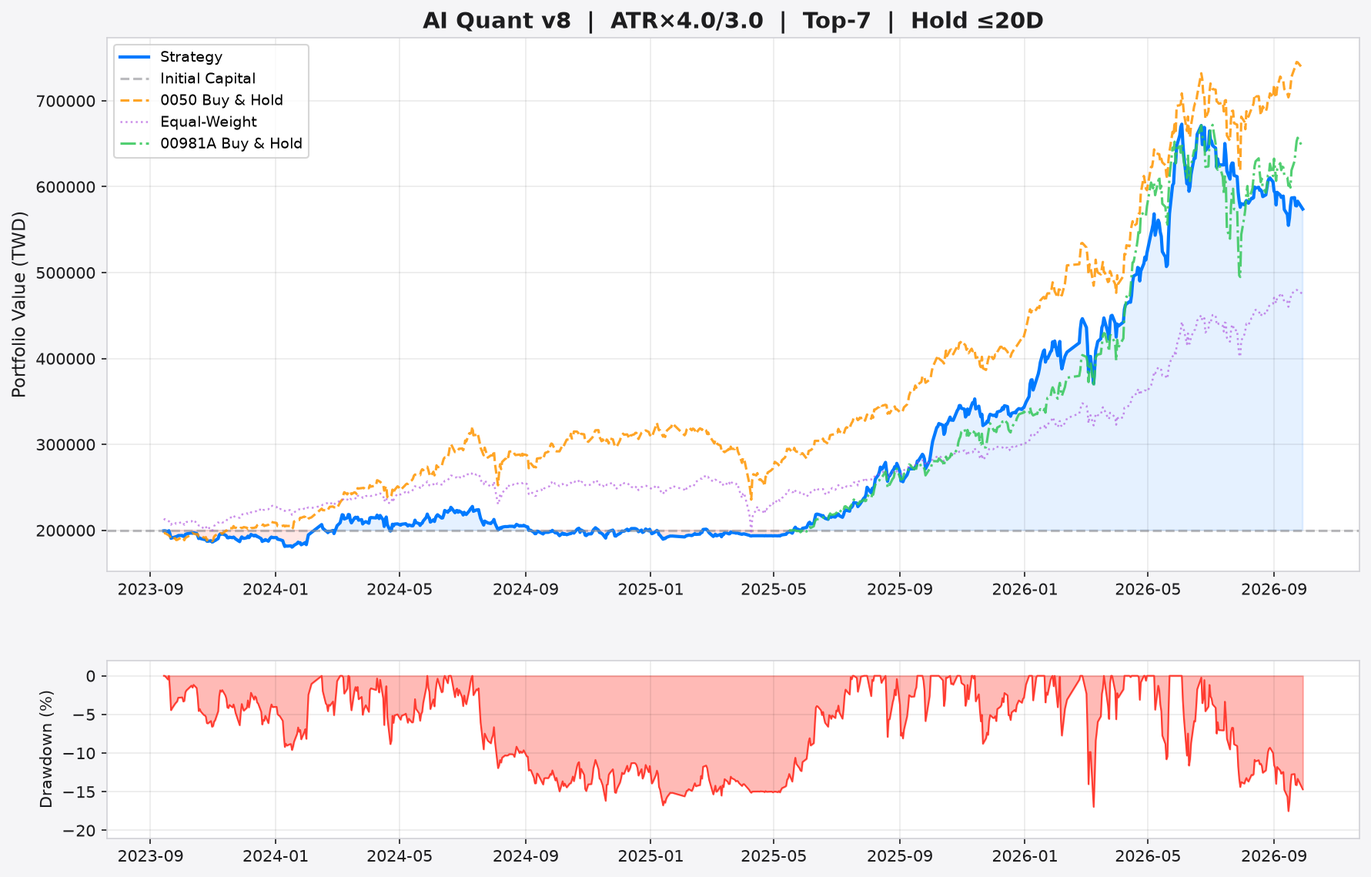
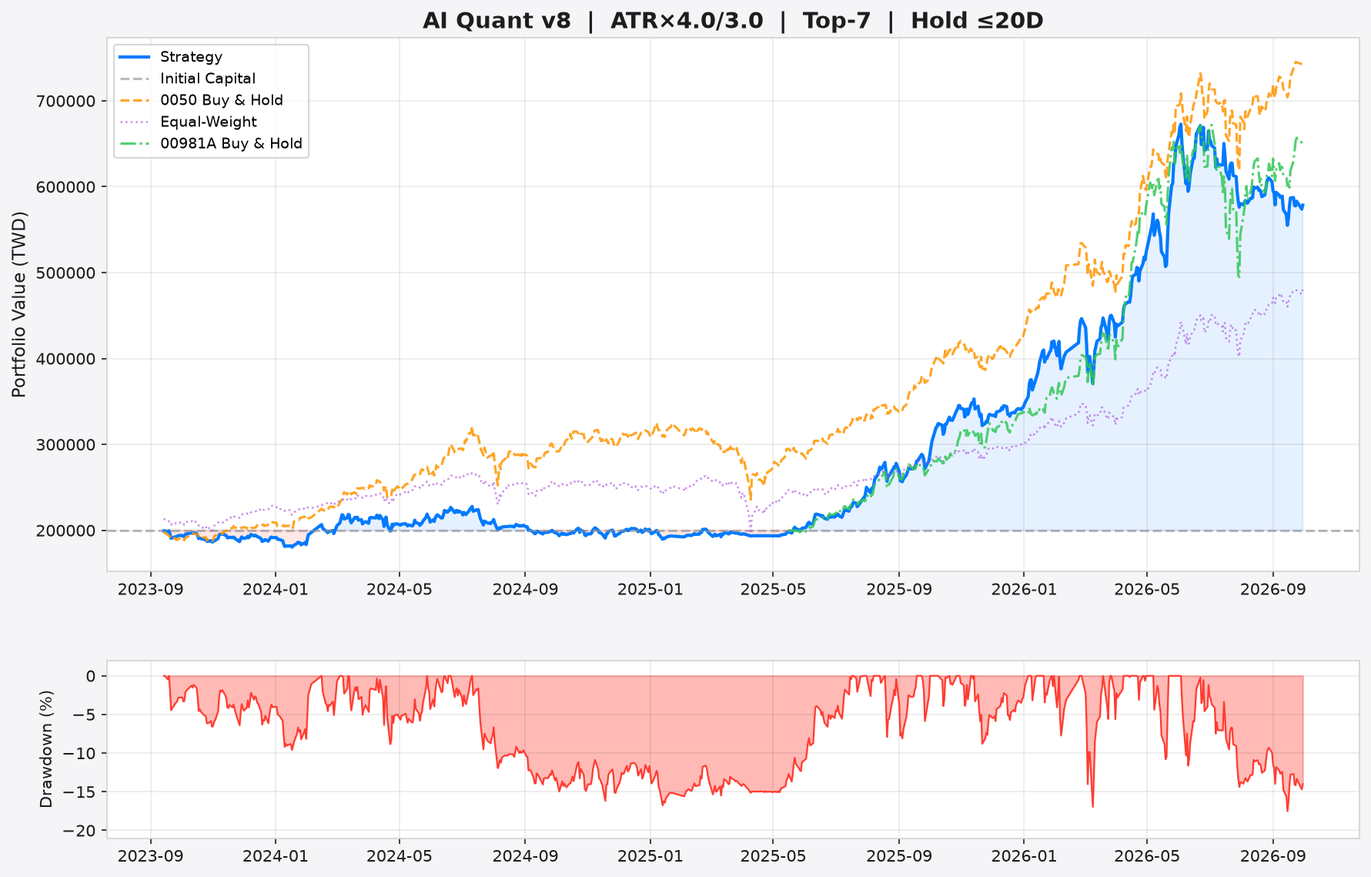
📊 AI Report v8.5 + Paper Trading (2026-09-30)

diff --git a/stock_report.html b/stock_report.html
@@ -3,7 +3,7 @@
 <head>
     <meta charset="utf-8">
     <meta name="viewport" content="width=device-width, initial-scale=1.0">
-    <title>AI 台股量化交易 v8.5 — 2026-09-29</title>
+    <title>AI 台股量化交易 v8.5 — 2026-09-30</title>
     <meta name="description" content="AI 驅動的台股量化交易系統 v8.5，完整風險報告、Benchmark 對比、OCO 智慧掛單建議">
     <script>
         (function() {
@@ -292,7 +292,7 @@
 
     <h1>🎯 AI 台股量化交易 v8.5</h1>
     <p class="subtitle">
-        Event-Driven System &nbsp;|&nbsp; 報表日期: 2026-09-29 &nbsp;|&nbsp;
+        Event-Driven System &nbsp;|&nbsp; 報表日期: 2026-09-30 &nbsp;|&nbsp;
         <span class="config-badge">🛡 ATR×4.0/3.0</span>
         <span class="config-badge">🎯 Top-7</span>
         <span class="config-badge">⏱ 最長 20 天</span>
@@ -303,11 +303,11 @@
     <div class="stats">
         <div class="stat-card">
             <div class="label">策略總報酬率</div>
-            <div class="value" style="color:#00ff00;">+187.0%</div>
+            <div class="value" style="color:#00ff00;">+189.3%</div>
         </div>
         <div class="stat-card">
             <div class="label">年化報酬率</div>
-            <div class="value" style="color:#00ff00;">+43.4%</div>
+            <div class="value" style="color:#00ff00;">+43.7%</div>
         </div>
         <div class="stat-card">
             <div class="label">年化波動率</div>
@@ -315,11 +315,11 @@
         </div>
         <div class="stat-card risk">
             <div class="label">Sharpe Ratio</div>
-            <div class="value" style="color:#00ff00;">1.52</div>
+            <div class="value" style="color:#00ff00;">1.53</div>
         </div>
         <div class="stat-card risk">
             <div class="label">Sortino Ratio</div>
-            <div class="value">2.19</div>
+            <div class="value">2.21</div>
         </div>
         <div class="stat-card risk">
             <div class="label">最大回撤</div>
@@ -327,7 +327,7 @@
         </div>
         <div class="stat-card risk">
             <div class="label">Calmar Ratio</div>
-            <div class="value">2.48</div>
+            <div class="value">2.50</div>
         </div>
         <div class="stat-card">
             <div class="label">完成交易數</div>
@@ -370,23 +370,23 @@
             </tr>
         </thead>
         <tbody>
-<tr><td>6505</td><td>3.97</td><td>94.3</td><td><span style="color:#00ff00; font-weight:bold;">🟢 建議買進 #1</span></td><td><b>停利:</b> <span style="color:#00ff00">111.3</span> (+18.0%) <br><b>停損:</b> <span style="color:#ff4444">81.6</span> (-13.5%) <br><b>最晚出場:</b> 2026-10-29</td><td><span style="font-size:0.72rem; color:#888;">歷史 <b>2</b>筆 | 勝率 <b style="color:#ff4444">0%</b> | 均報酬 <b style="color:#ff4444">-10.4%</b></span></td><td><span style="font-size:0.78rem;">⚪ 無資料<br><span style="color:#888; font-weight:bold;">+0.0%</span></span></td><td><span style="font-size:0.78rem;">⚪ 中性</span></td></tr>
-<tr><td>3443</td><td>3.95</td><td>7925.0</td><td><span style="color:#00ff00; font-weight:bold;">🟢 建議買進 #2</span></td><td><b>停利:</b> <span style="color:#00ff00">9661.0</span> (+21.9%) <br><b>停損:</b> <span style="color:#ff4444">6623.0</span> (-16.4%) <br><b>最晚出場:</b> 2026-10-29</td><td><span style="font-size:0.72rem; color:#888;">歷史 <b>13</b>筆 | 勝率 <b style="color:#00ff00">54%</b> | 均報酬 <b style="color:#00ff00">+1.6%</b></span></td><td><span style="font-size:0.78rem;">⚪ 無資料<br><span style="color:#888; font-weight:bold;">+0.0%</span></span></td><td><span style="font-size:0.78rem;">⚪ 中性</span></td></tr>
-<tr><td>3529O</td><td>3.88</td><td>3305.0</td><td><span style="color:#00ff00; font-weight:bold;">🟢 建議買進 #3</span></td><td><b>停利:</b> <span style="color:#00ff00">4102.0</span> (+24.1%) <br><b>停損:</b> <span style="color:#ff4444">2707.2</span> (-18.1%) <br><b>最晚出場:</b> 2026-10-29</td><td><span style="font-size:0.72rem; color:#888;">歷史 <b>10</b>筆 | 勝率 <b style="color:#ff4444">40%</b> | 均報酬 <b style="color:#ff4444">-0.4%</b></span></td><td><span style="font-size:0.78rem;">⚪ 無資料<br><span style="color:#888; font-weight:bold;">+0.0%</span></span></td><td><span style="font-size:0.78rem;">⚪ 中性</span></td></tr>
-<tr><td>5274O</td><td>3.75</td><td>19395.0</td><td><span style="color:#00ff00; font-weight:bold;">🟢 建議買進 #4</span></td><td><b>停利:</b> <span style="color:#00ff00">23988.0</span> (+23.7%) <br><b>停損:</b> <span style="color:#ff4444">15950.2</span> (-17.8%) <br><b>最晚出場:</b> 2026-10-29</td><td><span style="font-size:0.72rem; color:#888;">歷史 <b>16</b>筆 | 勝率 <b style="color:#00ff00">75%</b> | 均報酬 <b style="color:#00ff00">+6.5%</b></span></td><td><span style="font-size:0.78rem;">⚪ 無資料<br><span style="color:#888; font-weight:bold;">+0.0%</span></span></td><td><span style="font-size:0.78rem;">⚪ 中性</span></td></tr>
-<tr><td>2454</td><td>3.72</td><td>4910.0</td><td><span style="color:#00ff00; font-weight:bold;">🟢 建議買進 #5</span></td><td><b>停利:</b> <span style="color:#00ff00">5886.0</span> (+19.9%) <br><b>停損:</b> <span style="color:#ff4444">4178.0</span> (-14.9%) <br><b>最晚出場:</b> 2026-10-29</td><td><span style="font-size:0.72rem; color:#888;">歷史 <b>8</b>筆 | 勝率 <b style="color:#00ff00">88%</b> | 均報酬 <b style="color:#00ff00">+9.2%</b></span></td><td><span style="font-size:0.78rem;">🟡 小買<br><span style="color:#ffab00; font-weight:bold;">+1.1%</span></span></td><td><span style="font-size:0.78rem;">⚪ 中性</span></td></tr>
-<tr><td>2883</td><td>3.62</td><td>39.0</td><td><span style="color:#00ff00; font-weight:bold;">🟢 建議買進 #6</span></td><td><b>停利:</b> <span style="color:#00ff00">43.5</span> (+11.8%) <br><b>停損:</b> <span style="color:#ff4444">35.5</span> (-8.9%) <br><b>最晚出場:</b> 2026-10-29</td><td><span style="font-size:0.72rem; color:#555;">歷史資料不足</span></td><td><span style="font-size:0.78rem;">🟢 大買<br><span style="color:#00ff00; font-weight:bold;">+3.5%</span></span></td><td><span style="font-size:0.78rem;">⚪ 中性</span></td></tr>
-<tr><td>2303</td><td>3.50</td><td>153.5</td><td><span style="color:#00ff00; font-weight:bold;">🟢 建議買進 #7</span></td><td><b>停利:</b> <span style="color:#00ff00">182.6</span> (+19.0%) <br><b>停損:</b> <span style="color:#ff4444">131.7</span> (-14.2%) <br><b>最晚出場:</b> 2026-10-29</td><td><span style="font-size:0.72rem; color:#888;">歷史 <b>4</b>筆 | 勝率 <b style="color:#00ff00">75%</b> | 均報酬 <b style="color:#00ff00">+7.0%</b></span></td><td><span style="font-size:0.78rem;">🟡 小買<br><span style="color:#ffab00; font-weight:bold;">+1.6%</span></span></td><td><span style="font-size:0.78rem;">⚪ 中性</span></td></tr>
-<tr style="opacity:0.6"><td>2884</td><td>3.47</td><td>44.9</td><td><span style="color:#ffab00">🟡 候選 (超出 Top-K)</span></td><td>-</td><td><span style="font-size:0.72rem; color:#888;">勝率 <b style="color:#00ff00">75%</b></span></td><td><span style="font-size:0.72rem;">⚪ 無資料<br><span style="color:#888">+0.0%</span></span></td><td><span style="font-size:0.72rem;">⚪ 中性</span></td></tr>
-<tr style="opacity:0.6"><td>1303</td><td>3.45</td><td>247.0</td><td><span style="color:#ffab00">🟡 候選 (超出 Top-K)</span></td><td>-</td><td><span style="font-size:0.72rem; color:#888;">勝率 <b style="color:#00ff00">75%</b></span></td><td><span style="font-size:0.72rem;">⚪ 無資料<br><span style="color:#888">+0.0%</span></span></td><td><span style="font-size:0.72rem;">⚪ 中性</span></td></tr>
-<tr style="opacity:0.6"><td>2404</td><td>3.23</td><td>1220.0</td><td><span style="color:#ffab00">🟡 候選 (超出 Top-K)</span></td><td>-</td><td><span style="font-size:0.72rem; color:#888;">勝率 <b style="color:#00ff00">68%</b></span></td><td><span style="font-size:0.72rem;">🟡 小買<br><span style="color:#888">+1.3%</span></span></td><td><span style="font-size:0.72rem;">⚪ 中性</span></td></tr>
-<tr style="opacity:0.6"><td>2892</td><td>3.22</td><td>38.6</td><td><span style="color:#ffab00">🟡 候選 (超出 Top-K)</span></td><td>-</td><td><span style="font-size:0.72rem; color:#555;">-</span></td><td><span style="font-size:0.72rem;">🟡 小買<br><span style="color:#888">+1.8%</span></span></td><td><span style="font-size:0.72rem;">⚪ 中性</span></td></tr>
-<tr style="opacity:0.6"><td>2395</td><td>3.15</td><td>730.0</td><td><span style="color:#ffab00">🟡 候選 (超出 Top-K)</span></td><td>-</td><td><span style="font-size:0.72rem; color:#888;">勝率 <b style="color:#ff4444">33%</b></span></td><td><span style="font-size:0.72rem;">⚪ 無資料<br><span style="color:#888">+0.0%</span></span></td><td><span style="font-size:0.72rem;">⚪ 中性</span></td></tr>
-<tr style="opacity:0.4"><td>1101</td><td>1.90</td><td>25.3</td><td><span style="color:#aaaaaa">⚪ 觀望 (評分不足)</span></td><td>-</td><td>-</td><td style="color:#555">-</td><td style="color:#555">-</td></tr>
-<tr style="opacity:0.4"><td>3017</td><td>1.88</td><td>3400.0</td><td><span style="color:#aaaaaa">⚪ 觀望 (評分不足)</span></td><td>-</td><td>-</td><td style="color:#555">-</td><td style="color:#555">-</td></tr>
-<tr style="opacity:0.4"><td>6770</td><td>1.85</td><td>72.3</td><td><span style="color:#aaaaaa">⚪ 觀望 (評分不足)</span></td><td>-</td><td>-</td><td style="color:#555">-</td><td style="color:#555">-</td></tr>
-<tr style="opacity:0.4"><td>2376</td><td>1.85</td><td>362.0</td><td><span style="color:#aaaaaa">⚪ 觀望 (評分不足)</span></td><td>-</td><td>-</td><td style="color:#555">-</td><td style="color:#555">-</td></tr>
-<tr style="opacity:0.4"><td>2603</td><td>1.83</td><td>238.0</td><td><span style="color:#aaaaaa">⚪ 觀望 (評分不足)</span></td><td>-</td><td>-</td><td style="color:#555">-</td><td style="color:#555">-</td></tr>
+<tr><td>3529O</td><td>3.98</td><td>3305.0</td><td><span style="color:#00ff00; font-weight:bold;">🟢 建議買進 #1</span></td><td><b>停利:</b> <span style="color:#00ff00">4122.0</span> (+24.7%) <br><b>停損:</b> <span style="color:#ff4444">2692.2</span> (-18.5%) <br><b>最晚出場:</b> 2026-10-30</td><td><span style="font-size:0.72rem; color:#888;">歷史 <b>10</b>筆 | 勝率 <b style="color:#ff4444">40%</b> | 均報酬 <b style="color:#ff4444">-0.4%</b></span></td><td><span style="font-size:0.78rem;">⚪ 無資料<br><span style="color:#888; font-weight:bold;">+0.0%</span></span></td><td><span style="font-size:0.78rem;">⚪ 中性</span></td></tr>
+<tr><td>6505</td><td>3.92</td><td>97.3</td><td><span style="color:#00ff00; font-weight:bold;">🟢 建議買進 #2</span></td><td><b>停利:</b> <span style="color:#00ff00">114.8</span> (+18.0%) <br><b>停損:</b> <span style="color:#ff4444">84.2</span> (-13.5%) <br><b>最晚出場:</b> 2026-10-30</td><td><span style="font-size:0.72rem; color:#888;">歷史 <b>2</b>筆 | 勝率 <b style="color:#ff4444">0%</b> | 均報酬 <b style="color:#ff4444">-10.4%</b></span></td><td><span style="font-size:0.78rem;">⚪ 無資料<br><span style="color:#888; font-weight:bold;">+0.0%</span></span></td><td><span style="font-size:0.78rem;">⚪ 中性</span></td></tr>
+<tr><td>3443</td><td>3.90</td><td>8040.0</td><td><span style="color:#00ff00; font-weight:bold;">🟢 建議買進 #3</span></td><td><b>停利:</b> <span style="color:#00ff00">9742.0</span> (+21.2%) <br><b>停損:</b> <span style="color:#ff4444">6763.5</span> (-15.9%) <br><b>最晚出場:</b> 2026-10-30</td><td><span style="font-size:0.72rem; color:#888;">歷史 <b>13</b>筆 | 勝率 <b style="color:#00ff00">54%</b> | 均報酬 <b style="color:#00ff00">+1.6%</b></span></td><td><span style="font-size:0.78rem;">⚪ 無資料<br><span style="color:#888; font-weight:bold;">+0.0%</span></span></td><td><span style="font-size:0.78rem;">⚪ 中性</span></td></tr>
+<tr><td>2454</td><td>3.77</td><td>4920.0</td><td><span style="color:#00ff00; font-weight:bold;">🟢 建議買進 #4</span></td><td><b>停利:</b> <span style="color:#00ff00">5901.0</span> (+19.9%) <br><b>停損:</b> <span style="color:#ff4444">4184.2</span> (-15.0%) <br><b>最晚出場:</b> 2026-10-30</td><td><span style="font-size:0.72rem; color:#888;">歷史 <b>8</b>筆 | 勝率 <b style="color:#00ff00">88%</b> | 均報酬 <b style="color:#00ff00">+9.2%</b></span></td><td><span style="font-size:0.78rem;">🟡 小買<br><span style="color:#ffab00; font-weight:bold;">+1.1%</span></span></td><td><span style="font-size:0.78rem;">⚪ 中性</span></td></tr>
+<tr><td>2404</td><td>3.67</td><td>1290.0</td><td><span style="color:#00ff00; font-weight:bold;">🟢 建議買進 #5</span></td><td><b>停利:</b> <span style="color:#00ff00">1516.6</span> (+17.6%) <br><b>停損:</b> <span style="color:#ff4444">1120.0</span> (-13.2%) <br><b>最晚出場:</b> 2026-10-30</td><td><span style="font-size:0.72rem; color:#888;">歷史 <b>19</b>筆 | 勝率 <b style="color:#00ff00">68%</b> | 均報酬 <b style="color:#00ff00">+3.8%</b></span></td><td><span style="font-size:0.78rem;">🟡 小買<br><span style="color:#ffab00; font-weight:bold;">+1.3%</span></span></td><td><span style="font-size:0.78rem;">⚪ 中性</span></td></tr>
+<tr><td>3037</td><td>3.58</td><td>1175.0</td><td><span style="color:#00ff00; font-weight:bold;">🟢 建議買進 #6</span></td><td><b>停利:</b> <span style="color:#00ff00">1397.4</span> (+18.9%) <br><b>停損:</b> <span style="color:#ff4444">1008.2</span> (-14.2%) <br><b>最晚出場:</b> 2026-10-30</td><td><span style="font-size:0.72rem; color:#888;">歷史 <b>12</b>筆 | 勝率 <b style="color:#00ff00">58%</b> | 均報酬 <b style="color:#00ff00">+6.2%</b></span></td><td><span style="font-size:0.78rem;">🟡 小買<br><span style="color:#ffab00; font-weight:bold;">+1.8%</span></span></td><td><span style="font-size:0.78rem;">⚪ 中性</span></td></tr>
+<tr><td>2303</td><td>3.53</td><td>154.5</td><td><span style="color:#00ff00; font-weight:bold;">🟢 建議買進 #7</span></td><td><b>停利:</b> <span style="color:#00ff00">183.3</span> (+18.6%) <br><b>停損:</b> <span style="color:#ff4444">132.9</span> (-14.0%) <br><b>最晚出場:</b> 2026-10-30</td><td><span style="font-size:0.72rem; color:#888;">歷史 <b>4</b>筆 | 勝率 <b style="color:#00ff00">75%</b> | 均報酬 <b style="color:#00ff00">+7.0%</b></span></td><td><span style="font-size:0.78rem;">🟡 小買<br><span style="color:#ffab00; font-weight:bold;">+1.6%</span></span></td><td><span style="font-size:0.78rem;">⚪ 中性</span></td></tr>
+<tr style="opacity:0.6"><td>3711</td><td>3.52</td><td>703.0</td><td><span style="color:#ffab00">🟡 候選 (超出 Top-K)</span></td><td>-</td><td><span style="font-size:0.72rem; color:#888;">勝率 <b style="color:#00ff00">60%</b></span></td><td><span style="font-size:0.72rem;">🟡 小買<br><span style="color:#888">+0.9%</span></span></td><td><span style="font-size:0.72rem;">⚪ 中性</span></td></tr>
+<tr style="opacity:0.6"><td>5274O</td><td>3.45</td><td>18750.0</td><td><span style="color:#ffab00">🟡 候選 (超出 Top-K)</span></td><td>-</td><td><span style="font-size:0.72rem; color:#888;">勝率 <b style="color:#00ff00">75%</b></span></td><td><span style="font-size:0.72rem;">⚪ 無資料<br><span style="color:#888">+0.0%</span></span></td><td><span style="font-size:0.72rem;">⚪ 中性</span></td></tr>
+<tr style="opacity:0.6"><td>2883</td><td>3.43</td><td>38.8</td><td><span style="color:#ffab00">🟡 候選 (超出 Top-K)</span></td><td>-</td><td><span style="font-size:0.72rem; color:#555;">-</span></td><td><span style="font-size:0.72rem;">🟢 大買<br><span style="color:#00ff00">+3.5%</span></span></td><td><span style="font-size:0.72rem;">⚪ 中性</span></td></tr>
+<tr style="opacity:0.6"><td>2449</td><td>3.23</td><td>294.5</td><td><span style="color:#ffab00">🟡 候選 (超出 Top-K)</span></td><td>-</td><td><span style="font-size:0.72rem; color:#888;">勝率 <b style="color:#00ff00">60%</b></span></td><td><span style="font-size:0.72rem;">🟢 大買<br><span style="color:#00ff00">+3.5%</span></span></td><td><span style="font-size:0.72rem;">⚪ 中性</span></td></tr>
+<tr style="opacity:0.6"><td>2884</td><td>3.20</td><td>44.8</td><td><span style="color:#ffab00">🟡 候選 (超出 Top-K)</span></td><td>-</td><td><span style="font-size:0.72rem; color:#888;">勝率 <b style="color:#00ff00">75%</b></span></td><td><span style="font-size:0.72rem;">⚪ 無資料<br><span style="color:#888">+0.0%</span></span></td><td><span style="font-size:0.72rem;">⚪ 中性</span></td></tr>
+<tr style="opacity:0.4"><td>6239</td><td>1.97</td><td>289.5</td><td><span style="color:#aaaaaa">⚪ 觀望 (評分不足)</span></td><td>-</td><td>-</td><td style="color:#555">-</td><td style="color:#555">-</td></tr>
+<tr style="opacity:0.4"><td>3036</td><td>1.95</td><td>205.5</td><td><span style="color:#aaaaaa">⚪ 觀望 (評分不足)</span></td><td>-</td><td>-</td><td style="color:#555">-</td><td style="color:#555">-</td></tr>
+<tr style="opacity:0.4"><td>3231</td><td>1.93</td><td>184.5</td><td><span style="color:#aaaaaa">⚪ 觀望 (評分不足)</span></td><td>-</td><td>-</td><td style="color:#555">-</td><td style="color:#555">-</td></tr>
+<tr style="opacity:0.4"><td>3017</td><td>1.80</td><td>3435.0</td><td><span style="color:#aaaaaa">⚪ 觀望 (評分不足)</span></td><td>-</td><td>-</td><td style="color:#555">-</td><td style="color:#555">-</td></tr>
+<tr style="opacity:0.4"><td>3533</td><td>1.77</td><td>1770.0</td><td><span style="color:#aaaaaa">⚪ 觀望 (評分不足)</span></td><td>-</td><td>-</td><td style="color:#555">-</td><td style="color:#555">-</td></tr>
 
         </tbody>
     </table>
@@ -461,7 +461,7 @@
     <div class="stats">
         <div class="stat-card benchmark">
             <div class="label">0050 年化報酬</div>
-            <div class="value">+51.0%</div>
+            <div class="value">+51.3%</div>
         </div>
         <div class="stat-card benchmark">
             <div class="label">0050 最大回撤</div>
@@ -469,7 +469,7 @@
         </div>
         <div class="stat-card benchmark">
             <div class="label">0050 Sharpe</div>
-            <div class="value">1.77</div>
+            <div class="value">1.78</div>
         </div>
         <div class="stat-card" style="border-left-color:#ff4444">
             <div class="label">超額年化報酬 (α)</div>
@@ -480,7 +480,7 @@
     <div class="stats">
         <div class="stat-card benchmark">
             <div class="label">00981A 年化報酬</div>
-            <div class="value">+140.2%</div>
+            <div class="value">+141.5%</div>
         </div>
         <div class="stat-card benchmark">
             <div class="label">00981A 最大回撤</div>
@@ -488,11 +488,11 @@
         </div>
         <div class="stat-card benchmark">
             <div class="label">00981A Sharpe</div>
-            <div class="value">2.67</div>
+            <div class="value">2.68</div>
         </div>
         <div class="stat-card" style="border-left-color:#ff4444">
             <div class="label">超額 vs 00981A (共存期)</div>
-            <div class="value" style="color:#ff4444">-34.1%</div>
+            <div class="value" style="color:#ff4444">-34.3%</div>
         </div>
     </div>
     <img src="backtest_chart.png" alt="AI Quantitative Backtest Equity Curve with Benchmark">
@@ -507,19 +507,19 @@
         </div>
         <div class="stat-card benchmark">
             <div class="label">0050 近 5 日</div>
-            <div class="value" style="color:#ff4444">-0.0%</div>
+            <div class="value" style="color:#00ff00">+0.6%</div>
         </div>
         <div class="stat-card benchmark">
             <div class="label">0050 近 20 日</div>
-            <div class="value" style="color:#00ff00">+4.8%</div>
+            <div class="value" style="color:#00ff00">+5.5%</div>
         </div>
         <div class="stat-card benchmark">
             <div class="label">0050 近 60 日</div>
-            <div class="value" style="color:#00ff00">+3.4%</div>
+            <div class="value" style="color:#00ff00">+4.1%</div>
         </div>
         <div class="stat-card risk">
             <div class="label">市場波動率 (20D)</div>
-            <div class="value">17.5%</div>
+            <div class="value">17.0%</div>
         </div>
     </div>
 
@@ -529,7 +529,7 @@
     <div class="stats">
         <div class="stat-card risk">
             <div class="label">目前回撤</div>
-            <div class="value" style="color:#ff4444">-14.7%</div>
+            <div class="value" style="color:#ff4444">-14.0%</div>
         </div>
         <div class="stat-card">
             <div class="label">權益最高點</div>
@@ -543,7 +543,7 @@
     <table>
         <thead><tr><th>#</th><th>開始日</th><th>恢復日</th><th>最大深度</th><th>持續天數</th></tr></thead>
         <tbody>
-<tr><td>#1</td><td>2026-06-23</td><td>2026-09-29</td><td style="color:#ff4444; font-weight:bold">-17.5%</td><td>98 天</td></tr>
+<tr><td>#1</td><td>2026-06-23</td><td>2026-09-30</td><td style="color:#ff4444; font-weight:bold">-17.5%</td><td>99 天</td></tr>
 <tr><td>#2</td><td>2026-03-02</td><td>2026-03-19</td><td style="color:#ff4444; font-weight:bold">-17.0%</td><td>17 天</td></tr>
 <tr><td>#3</td><td>2024-07-12</td><td>2025-07-15</td><td style="color:#ff4444; font-weight:bold">-16.8%</td><td>368 天</td></tr>
 <tr><td>#4</td><td>2026-06-04</td><td>2026-06-22</td><td style="color:#ff4444; font-weight:bold">-11.6%</td><td>18 天</td></tr>
@@ -558,11 +558,11 @@
     <div class="stats">
         <div class="stat-card" style="border-left-color:#ff4444">
             <div class="label">近 60 日 Sharpe</div>
-            <div class="value" style="color:#ff4444">-2.05</div>
+            <div class="value" style="color:#ff4444">-1.82</div>
         </div>
         <div class="stat-card">
             <div class="label">歷史平均 Sharpe</div>
-            <div class="value">1.49</div>
+            <div class="value">1.48</div>
         </div>
         <div class="stat-card risk">
             <div class="label">歷史最低 Sharpe</div>
@@ -722,7 +722,7 @@
 <tr style="background:rgba(0,255,0,0.08)"><td>2026-06</td><td style="color:#00ff00; font-weight:bold">+2.7%</td></tr>
 <tr style="background:rgba(255,68,68,0.30)"><td>2026-07</td><td style="color:#ff4444; font-weight:bold">-12.7%</td></tr>
 <tr style="background:rgba(0,255,0,0.13)"><td>2026-08</td><td style="color:#00ff00; font-weight:bold">+4.4%</td></tr>
-<tr style="background:rgba(255,68,68,0.16)"><td>2026-09</td><td style="color:#ff4444; font-weight:bold">-5.2%</td></tr>
+<tr style="background:rgba(255,68,68,0.13)"><td>2026-09</td><td style="color:#ff4444; font-weight:bold">-4.5%</td></tr>
 
         </tbody>
     </table>

diff --git a/paper_trading.html b/paper_trading.html
@@ -3,7 +3,7 @@
 <head>
     <meta charset="utf-8">
     <meta name="viewport" content="width=device-width, initial-scale=1.0">
-    <title>Paper Trading v8.5 — 2026-09-29</title>
+    <title>Paper Trading v8.5 — 2026-09-30</title>
     <meta name="description" content="TW Stocker v8.5 Paper Trading 實時績效追蹤">
     <script src="https://cdn.jsdelivr.net/npm/chart.js@4"></script>
     <style>
@@ -92,7 +92,7 @@
     <h1>📈 Paper Trading v8.5</h1>
     <p class="subtitle">
         <span class="badge badge-live">● LIVE</span>
-        起始日 2026-09-29 | 更新 2026-09-29 | 初始資金 200,000 | 保留本金 10%，其餘投入
+        起始日 2026-09-30 | 更新 2026-09-30 | 初始資金 200,000 | 保留本金 10%，其餘投入
     </p>
 
     <div class="metrics">
@@ -149,53 +149,53 @@
             <tr><th>股票</th><th>參考收盤</th><th>停利</th><th>停損</th><th>執行日</th></tr>
             
         <tr>
+            <td><b>3529O</b></td>
+            <td>3305.0</td>
+            <td>4122.0</td>
+            <td>2692.2</td>
+            <td>2026-10-01</td>
+        </tr>
+        <tr>
             <td><b>6505</b></td>
-            <td>94.3</td>
-            <td>111.3</td>
-            <td>81.6</td>
-            <td>2026-09-30</td>
+            <td>97.3</td>
+            <td>114.8</td>
+            <td>84.2</td>
+            <td>2026-10-01</td>
         </tr>
         <tr>
             <td><b>3443</b></td>
-            <td>7925.0</td>
-            <td>9661.0</td>
-            <td>6623.0</td>
-            <td>2026-09-30</td>
-        </tr>
-        <tr>
-            <td><b>3529O</b></td>
-            <td>3305.0</td>
-            <td>4102.0</td>
-            <td>2707.2</td>
-            <td>2026-09-30</td>
-        </tr>
-        <tr>
-            <td><b>5274O</b></td>
-            <td>19395.0</td>
-            <td>23988.0</td>
-            <td>15950.2</td>
-            <td>2026-09-30</td>
+            <td>8040.0</td>
+            <td>9742.0</td>
+            <td>6763.5</td>
+            <td>2026-10-01</td>
         </tr>
         <tr>
             <td><b>2454</b></td>
-            <td>4910.0</td>
-            <td>5886.0</td>
-            <td>4178.0</td>
-            <td>2026-09-30</td>
+            <td>4920.0</td>
+            <td>5901.0</td>
+            <td>4184.2</td>
+            <td>2026-10-01</td>
         </tr>
         <tr>
-            <td><b>2883</b></td>
-            <td>39.0</td>
-            <td>43.5</td>
-            <td>35.5</td>
-            <td>2026-09-30</td>
+            <td><b>2404</b></td>
+            <td>1290.0</td>
+            <td>1516.6</td>
+            <td>1120.0</td>
+            <td>2026-10-01</td>
+        </tr>
+        <tr>
+            <td><b>3037</b></td>
+            <td>1175.0</td>
+            <td>1397.4</td>
+            <td>1008.2</td>
+            <td>2026-10-01</td>
         </tr>
         <tr>
             <td><b>2303</b></td>
-            <td>153.5</td>
-            <td>182.6</td>
-            <td>131.7</td>
-            <td>2026-09-30</td>
+            <td>154.5</td>
+            <td>183.3</td>
+            <td>132.9</td>
+            <td>2026-10-01</td>
         </tr>
         </table>
     </div>
@@ -219,7 +219,7 @@ const ctx = document.getElementById('equityChart').getContext('2d');
 new Chart(ctx, {
     type: 'line',
     data: {
-        labels: ["2026-09-29"],
+        labels: ["2026-09-30"],
         datasets: [{
             label: 'Paper Trading 權益',
             data: [200000],
